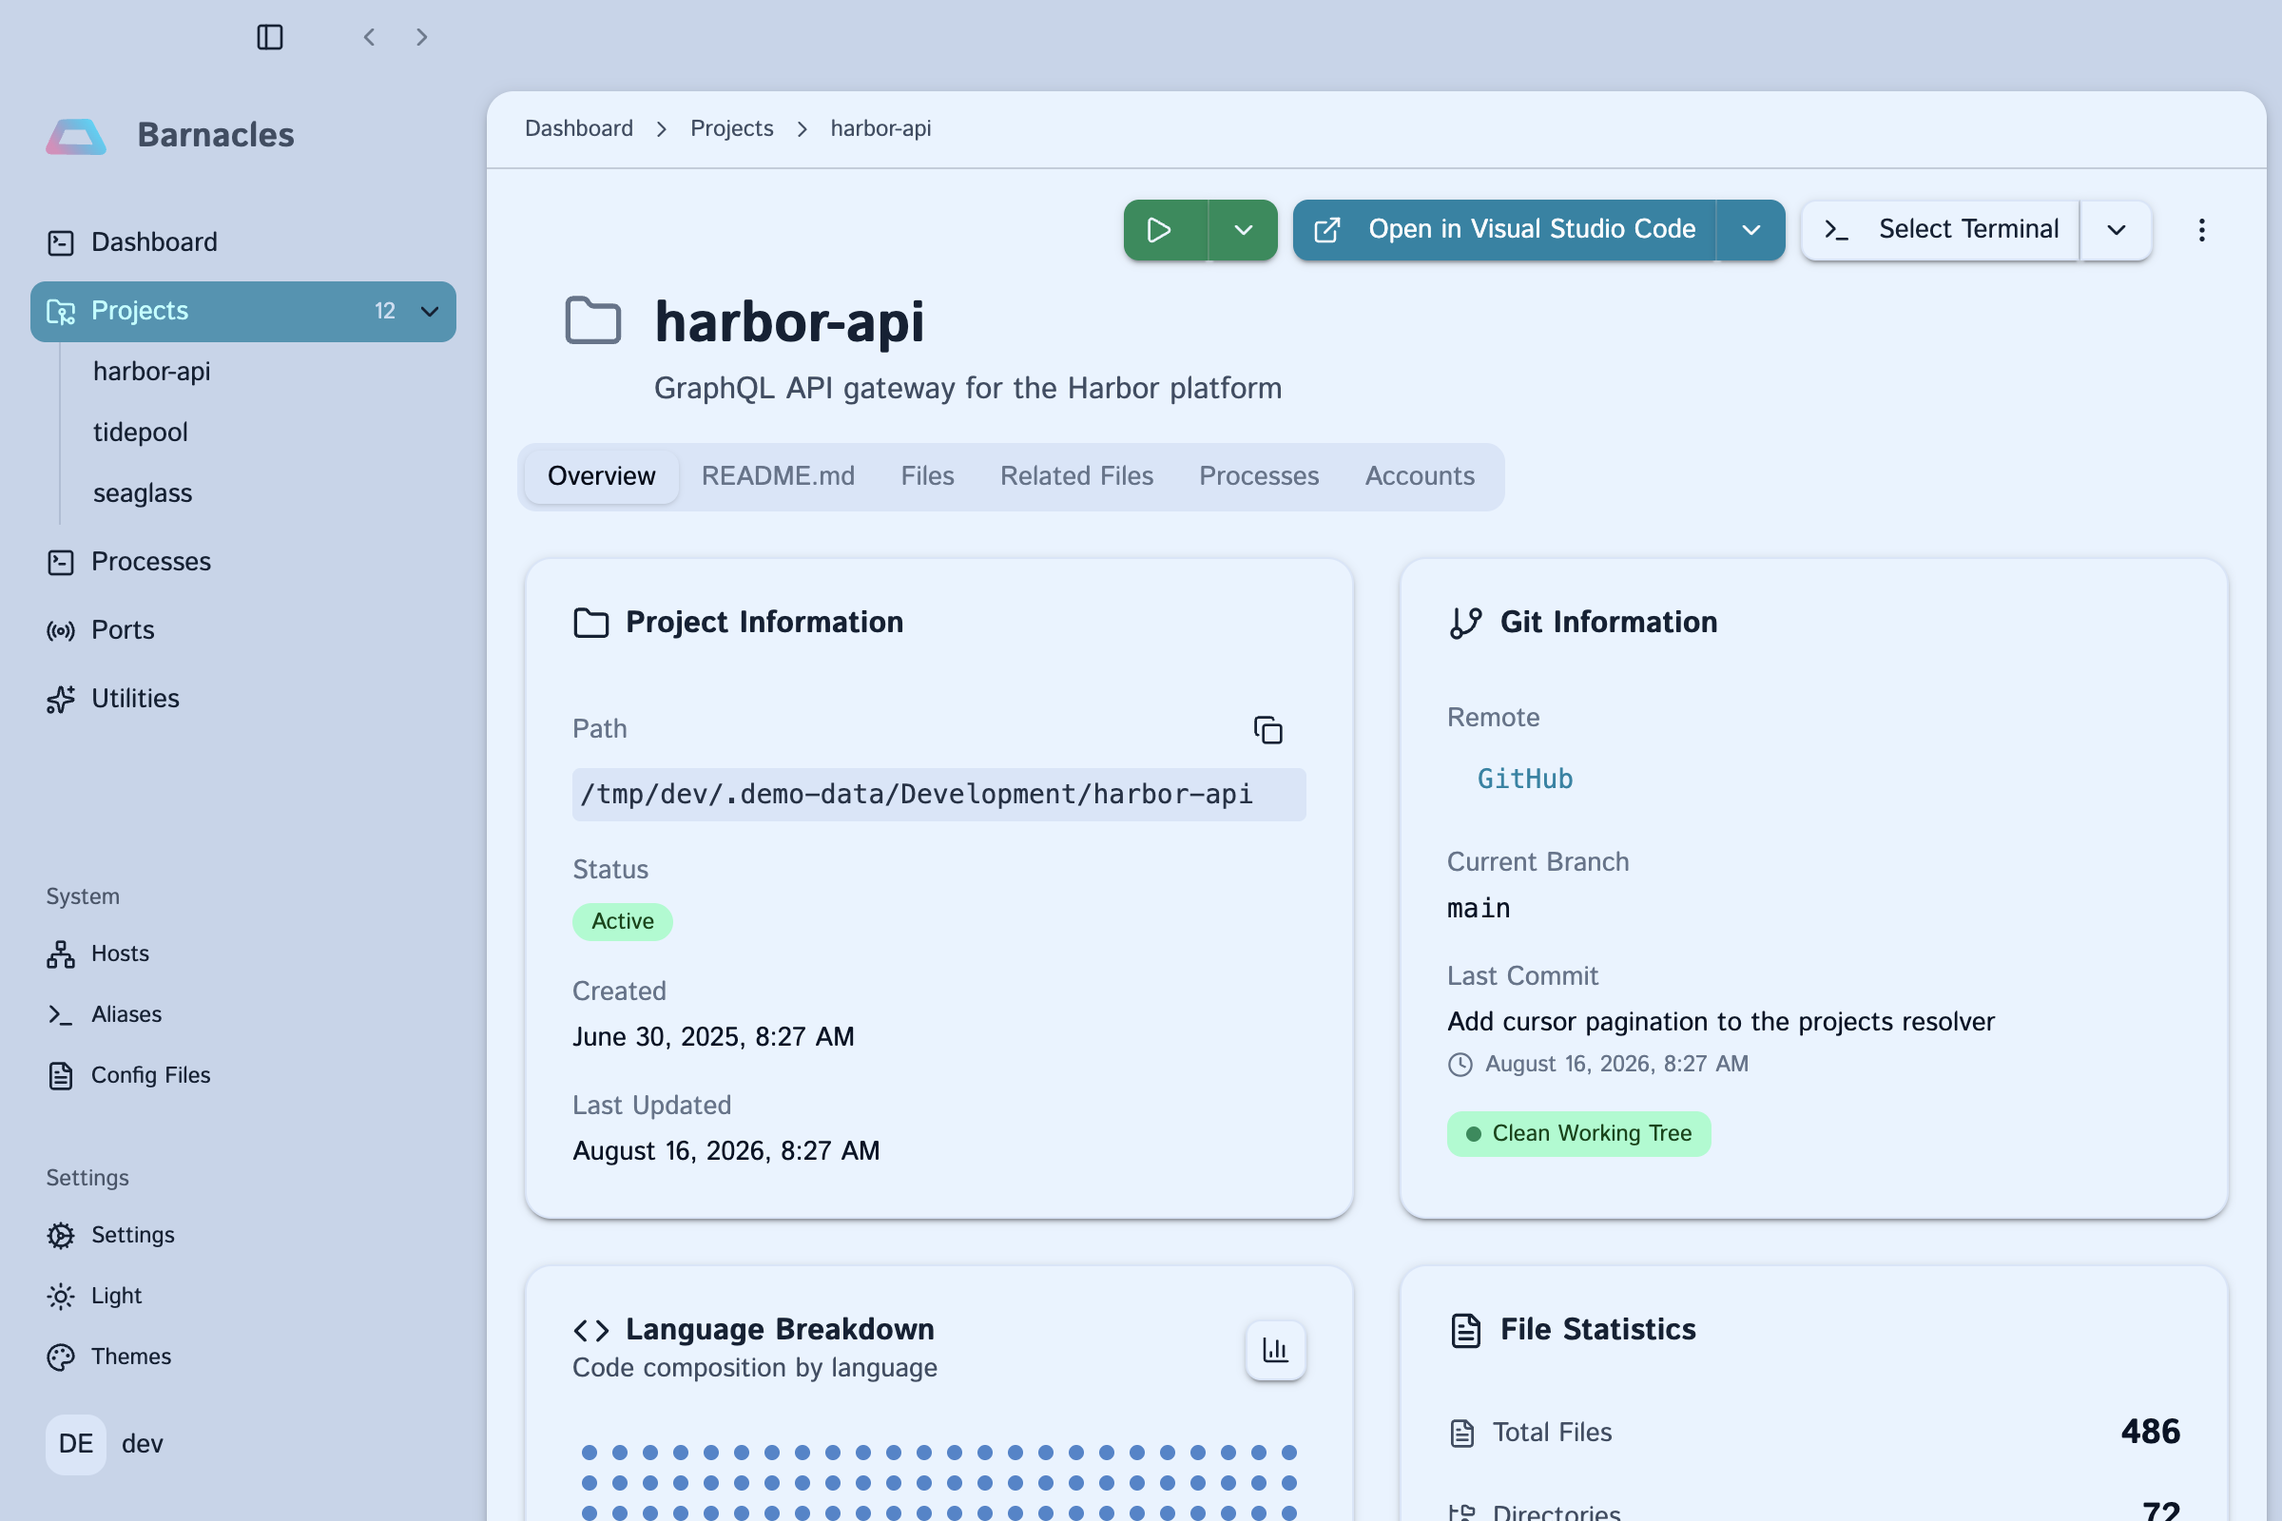
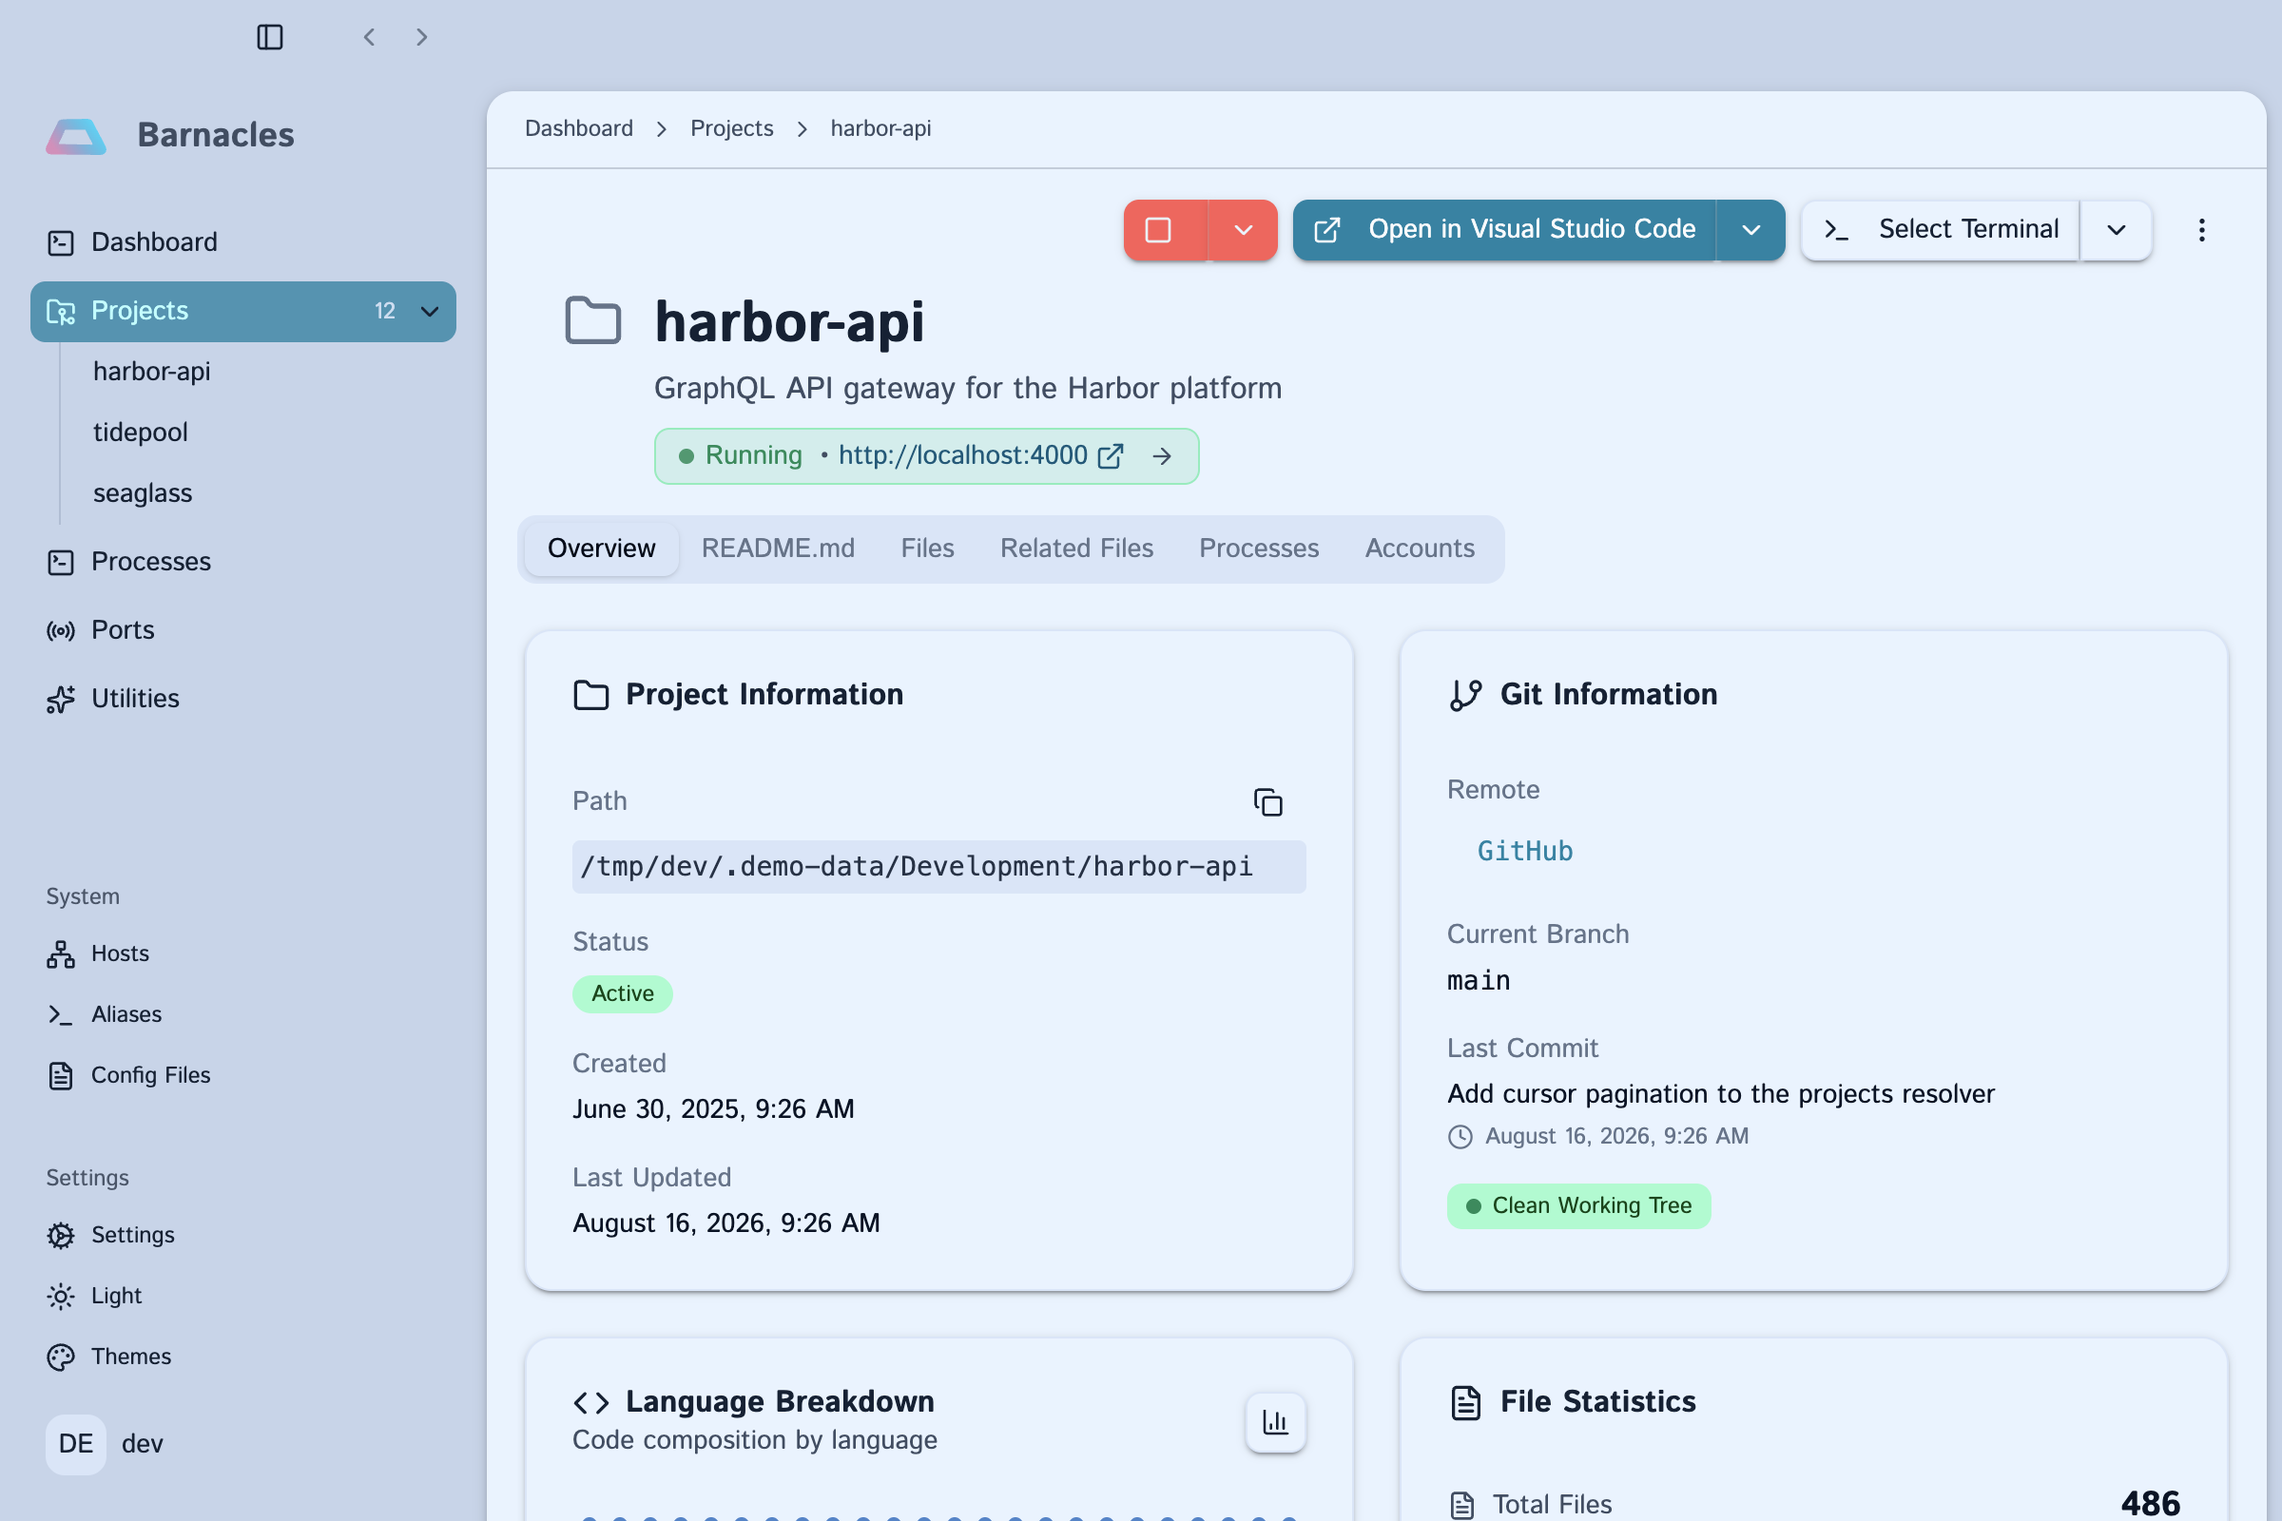
Populate dashboard git stats and running processes in demo mode
The dashboard read all zeros and no project looked live, so the headline
screenshot showed an empty app.

Git stats shell out to `git log` per project, and demo projects are plain
directories with no history. Demo mode now serves synthetic daily activity
derived from each date, so the totals, sparklines, and the frontend's
streak calculation all populate and stay identical between runs.

The day-empty rule anchors to the requested range rather than the calendar
date: the app's week runs Monday-Sunday via dayjs().day(1), which on a
Sunday resolves to the *upcoming* Monday and put every day in the future,
blanking the whole week.

Process state only exists once something is spawned, so demo mode reports
two projects as running — harbor-api on :4000 and lighthouse-web on :3000 —
which is what makes the cards show a live localhost link. Genuinely running
processes still take precedence, so starting one in demo mode behaves
normally. Only two are live on purpose; an all-running dashboard looks
staged.

diff --git a/src/backend/__tests__/unit/database/demo-git-stats.test.ts b/src/backend/__tests__/unit/database/demo-git-stats.test.ts
@@ -1,0 +1,104 @@
+import { describe, expect, it } from 'vitest';
+import { buildDemoGitStats } from '@shared/database/demo/data/git-stats';
+import {
+  DEMO_RUNNING_PROCESSES,
+  getDemoRunningProcesses,
+} from '@shared/database/demo/data/running-processes';
+import { DEMO_PROJECTS } from '@shared/database/demo/data/projects';
+import { DEMO_PROCESSES } from '@shared/database/demo/data/processes';
+
+function range(start: string, days: number): string[] {
+  const out: string[] = [];
+  const base = new Date(`${start}T12:00:00Z`);
+  for (let i = 0; i < days; i++) {
+    const day = new Date(base);
+    day.setUTCDate(base.getUTCDate() + i);
+    out.push(day.toISOString().slice(0, 10));
+  }
+  return out;
+}
+
+describe('demo git stats', () => {
+  const week = range('2026-08-10', 7);
+
+  it('returns one entry per requested date', () => {
+    const stats = buildDemoGitStats('week', week);
+    expect(stats.days.map(d => d.date)).toEqual(week);
+    expect(stats.period).toBe('week');
+  });
+
+  it('produces non-zero activity so the dashboard is not empty', () => {
+    const stats = buildDemoGitStats('week', week);
+    expect(stats.totals.commits).toBeGreaterThan(0);
+    expect(stats.totals.linesAdded).toBeGreaterThan(0);
+    expect(stats.totals.filesChanged).toBeGreaterThan(0);
+  });
+
+  it('is deterministic for the same dates', () => {
+    expect(buildDemoGitStats('week', week)).toEqual(buildDemoGitStats('week', week));
+  });
+
+  it('populates a range that lies entirely in the future', () => {
+    // The app's week runs Monday-Sunday, so on a Sunday the whole range is in
+    // the future. Those days must still be filled or the dashboard reads zero.
+    const future = range('2099-01-05', 7);
+    const stats = buildDemoGitStats('week', future);
+    expect(stats.totals.commits).toBeGreaterThan(0);
+  });
+
+  it('leaves days after today empty within a current range', () => {
+    const today = new Date().toISOString().slice(0, 10);
+    const start = new Date(Date.now() - 3 * 86_400_000).toISOString().slice(0, 10);
+    const stats = buildDemoGitStats('week', range(start, 7));
+
+    const future = stats.days.filter(day => day.date > today);
+    expect(future.length).toBeGreaterThan(0);
+    for (const day of future) {
+      expect(day.commits, `${day.date} should have no commits yet`).toBe(0);
+    }
+  });
+
+  it('keeps totals consistent with the per-day values', () => {
+    const stats = buildDemoGitStats('month', range('2026-07-01', 31));
+    const summed = stats.days.reduce((sum, day) => sum + day.commits, 0);
+    expect(stats.totals.commits).toBe(summed);
+  });
+});
+
+describe('demo running processes', () => {
+  it('marks only a couple of projects as live', () => {
+    // A dashboard where everything is running looks staged.
+    expect(DEMO_RUNNING_PROCESSES.length).toBeGreaterThan(0);
+    expect(DEMO_RUNNING_PROCESSES.length).toBeLessThan(4);
+  });
+
+  it('references real demo projects and seeded process ids', () => {
+    const projectIds = new Set(DEMO_PROJECTS.map(p => p.id));
+    const processIds = new Set(DEMO_PROCESSES.map(p => p.id));
+
+    for (const status of DEMO_RUNNING_PROCESSES) {
+      expect(projectIds).toContain(status.projectId);
+      for (const process of status.processes) {
+        expect(processIds, `unknown process ${process.processId}`).toContain(process.processId);
+      }
+    }
+  });
+
+  it('exposes a localhost URL so cards show a live link', () => {
+    const urls = DEMO_RUNNING_PROCESSES.flatMap(s => s.processes.map(p => p.url)).filter(Boolean);
+    expect(urls.length).toBeGreaterThan(0);
+    for (const url of urls) {
+      expect(url).toMatch(/^http:\/\/localhost:\d+$/);
+    }
+  });
+
+  it('reports every mocked process as running with a start time', () => {
+    for (const status of getDemoRunningProcesses()) {
+      for (const process of status.processes) {
+        expect(process.status).toBe('running');
+        expect(process.createdAt).toBeTruthy();
+        expect(new Date(process.createdAt!).getTime()).toBeLessThan(Date.now());
+      }
+    }
+  });
+});

diff --git a/src/shared/database/demo/data/git-stats.ts b/src/shared/database/demo/data/git-stats.ts
@@ -1,0 +1,99 @@
+import type { GitStats, GitStatsByDay, GitStatsTotals } from '../../../types/api';
+
+/**
+ * Synthetic git activity for demo mode.
+ *
+ * The real service shells out to `git log` in each project directory. Demo
+ * projects are plain directories with no history, so every dashboard stat came
+ * back as zero — the streak, the sparklines, and the commit counts were all
+ * empty in screenshots.
+ *
+ * Values are deterministic: each day is derived from its own date, so the shape
+ * of the chart is identical on every run while still tracking the current week.
+ */
+
+/** Weekday activity profile, indexed by day of week (0 = Sunday). */
+const COMMITS_BY_WEEKDAY = [1, 7, 5, 9, 6, 8, 2];
+const FILES_PER_COMMIT = 3;
+const LINES_ADDED_PER_COMMIT = 84;
+const LINES_REMOVED_PER_COMMIT = 37;
+const PROJECTS_BY_WEEKDAY = [1, 3, 2, 4, 3, 3, 1];
+
+/**
+ * Deterministic per-day jitter so the chart is not a flat repeating pattern.
+ * Derived from the date string itself rather than a PRNG, so it never shifts
+ * when unrelated code changes.
+ */
+function dateSeed(date: string): number {
+  let hash = 0;
+  for (const char of date) {
+    hash = (hash * 31 + char.charCodeAt(0)) % 1000;
+  }
+  return hash;
+}
+
+function buildDay(date: string): GitStatsByDay {
+  const weekday = new Date(`${date}T12:00:00`).getDay();
+  const seed = dateSeed(date);
+
+  // Keep weekends quiet, which is what a real contribution graph looks like.
+  const base = COMMITS_BY_WEEKDAY[weekday] ?? 4;
+  const commits = Math.max(0, base + (seed % 3) - 1);
+
+  if (commits === 0) {
+    return {
+      date,
+      commits: 0,
+      filesChanged: 0,
+      linesAdded: 0,
+      linesRemoved: 0,
+      projectsWorkedOn: 0,
+    };
+  }
+
+  return {
+    date,
+    commits,
+    filesChanged: commits * FILES_PER_COMMIT + (seed % 5),
+    linesAdded: commits * LINES_ADDED_PER_COMMIT + (seed % 60),
+    linesRemoved: commits * LINES_REMOVED_PER_COMMIT + (seed % 25),
+    projectsWorkedOn: Math.min(PROJECTS_BY_WEEKDAY[weekday] ?? 2, commits),
+  };
+}
+
+/**
+ * Build demo stats for the dates the caller asked about, so the response always
+ * lines up with the requested period.
+ */
+export function buildDemoGitStats(
+  period: 'week' | 'month' | 'last-week',
+  dates: string[]
+): GitStats {
+  // Days after "now" are left empty so a partial week tapers off rather than
+  // showing commits dated in the future.
+  //
+  // "Now" is the last day of the requested range rather than the calendar date:
+  // the app's week runs Monday-Sunday via dayjs().day(1), which on a Sunday
+  // resolves to the *upcoming* Monday, putting the whole range in the future.
+  // Anchoring to the range keeps the dashboard populated whichever day a
+  // screenshot is captured.
+  const calendarToday = new Date().toISOString().slice(0, 10);
+  const lastDate = dates[dates.length - 1] ?? calendarToday;
+  const cutoff = calendarToday < (dates[0] ?? calendarToday) ? lastDate : calendarToday;
+
+  const days = dates.map(date =>
+    date > cutoff
+      ? { date, commits: 0, filesChanged: 0, linesAdded: 0, linesRemoved: 0, projectsWorkedOn: 0 }
+      : buildDay(date)
+  );
+
+  const totals: GitStatsTotals = {
+    commits: days.reduce((sum, day) => sum + day.commits, 0),
+    filesChanged: days.reduce((sum, day) => sum + day.filesChanged, 0),
+    linesAdded: days.reduce((sum, day) => sum + day.linesAdded, 0),
+    linesRemoved: days.reduce((sum, day) => sum + day.linesRemoved, 0),
+    projectsWorkedOn: Math.max(...days.map(day => day.projectsWorkedOn), 0),
+  };
+
+  return { period, days, totals };
+}

diff --git a/src/shared/database/demo/data/running-processes.ts b/src/shared/database/demo/data/running-processes.ts
@@ -1,0 +1,59 @@
+import type { ProjectProcessStatus } from '../../../types/process';
+
+/**
+ * Mocked "currently running" processes for demo mode.
+ *
+ * Process state is in-memory and only exists once something is actually
+ * spawned, so a demo run shows every project idle. Spawning real dev servers
+ * during a screenshot run is not worth it, so these two projects are reported
+ * as live instead — which is what makes the cards show a localhost URL.
+ *
+ * Only a couple of projects are running on purpose: a dashboard where
+ * everything is live looks staged.
+ */
+
+/** Process ids match the seeded projectProcesses rows in data/processes.ts. */
+export const DEMO_RUNNING_PROCESSES: ProjectProcessStatus[] = [
+  {
+    projectId: 'demo-proj-01',
+    processes: [
+      {
+        processId: 'demo-proc-01',
+        projectId: 'demo-proj-01',
+        name: 'API server',
+        status: 'running',
+        url: 'http://localhost:4000',
+        detectedUrl: 'http://localhost:4000',
+      },
+      {
+        processId: 'demo-proc-03',
+        projectId: 'demo-proj-01',
+        name: 'Database',
+        status: 'running',
+      },
+    ],
+  },
+  {
+    projectId: 'demo-proj-03',
+    processes: [
+      {
+        processId: 'demo-proc-07',
+        projectId: 'demo-proj-03',
+        name: 'Dev server',
+        status: 'running',
+        url: 'http://localhost:3000',
+        detectedUrl: 'http://localhost:3000',
+      },
+    ],
+  },
+];
+
+/** Timestamps are applied at read time so "running for N minutes" stays plausible. */
+export function getDemoRunningProcesses(): ProjectProcessStatus[] {
+  const startedAt = new Date(Date.now() - 42 * 60 * 1000).toISOString();
+
+  return DEMO_RUNNING_PROCESSES.map(project => ({
+    ...project,
+    processes: project.processes.map(process => ({ ...process, createdAt: startedAt })),
+  }));
+}

diff --git a/src/backend/services/process-manager-service.ts b/src/backend/services/process-manager-service.ts
@@ -4,6 +4,8 @@ import type { IPty } from 'node-pty';
 import * as pty from 'node-pty';
 import type { ProcessStatus, ProjectProcessStatus, StartProcess } from '../../shared/types/process';
 import { isWindows, getDefaultShell } from '../../shared/utils/platform';
+import { isDemoMode } from '../../shared/config/runtime-mode';
+import { getDemoRunningProcesses } from '../../shared/database/demo/data/running-processes';
 
 interface RunningProcess {
   name: string;
@@ -302,6 +304,16 @@ class ProcessManagerService {
       allStatuses.push(this.getProcessStatus(projectId));
     }
 
+    // Demo mode reports a couple of projects as live without spawning anything,
+    // so the dashboard shows real localhost URLs. Anything genuinely running
+    // still wins, so starting a process in demo mode behaves normally.
+    if (isDemoMode()) {
+      const running = new Set(allStatuses.map(status => status.projectId));
+      for (const mocked of getDemoRunningProcesses()) {
+        if (!running.has(mocked.projectId)) allStatuses.push(mocked);
+      }
+    }
+
     return allStatuses;
   }
 
@@ -312,6 +324,11 @@ class ProcessManagerService {
     const projectProcesses = this.runningProcesses.get(projectId);
 
     if (!projectProcesses) {
+      if (isDemoMode()) {
+        const mocked = getDemoRunningProcesses().find(status => status.projectId === projectId);
+        if (mocked) return mocked;
+      }
+
       return {
         projectId,
         processes: [],

diff --git a/src/backend/services/project/project-git-stats-service.ts b/src/backend/services/project/project-git-stats-service.ts
@@ -4,6 +4,7 @@ import path from 'path';
 import { promisify } from 'util';
 import dayjs from 'dayjs';
 import type { GitStats, GitStatsByDay, GitStatsTotals } from '@shared/types/api';
+import { isDemoMode } from '../../../shared/config/runtime-mode';
 
 const execAsync = promisify(exec);
 
@@ -37,6 +38,14 @@ class ProjectGitStatsService {
     additionalEmails: string[] = []
   ): Promise<GitStats> {
     const { sinceDate, untilDate } = this.getPeriodDates(period);
+
+    // Demo projects are plain directories with no git history, so the real
+    // `git log` path returns zeros for every stat. Serve synthetic activity
+    // instead, using the same date range the caller asked for.
+    if (isDemoMode()) {
+      const { buildDemoGitStats } = await import('../../../shared/database/demo/data/git-stats');
+      return buildDemoGitStats(period, this.getDateRange(sinceDate, untilDate));
+    }
 
     // Get user info from git config
     const globalEmail = await this.getGlobalEmail();
